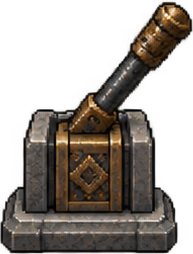
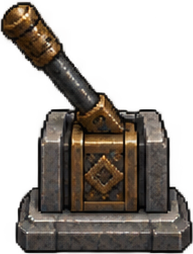
improve dwarven artwork, add new active floor trap state

diff --git a/tests/e2e/dwarven-traps.cy.js b/tests/e2e/dwarven-traps.cy.js
@@ -24,6 +24,62 @@ describe('Dwarven Ruins reusable traps', () => {
     cy.window().then(win => win.eval(`(${trapRuleChecks.toString()})()`))
   })
 
+  it('shows raised spikes only while a living creature occupies the trap', () => {
+    cy.window().then(win => win.eval(`(() => {
+      const check = (ok, msg) => { if (!ok) throw Error(msg) }
+      const level = trapFixture()
+      level.traps = [{id:'spike', type:'spikes', trigger:{x:11,y:12}}]
+      map[12][11] = 'dwarvenspikes'
+      const idle = 'img/tiles/dwarven-floor-trap-0.png'
+      const raised = 'img/tiles/dwarven-floor-trap-1.png'
+      const config = RENDER_STYLE.terrainTiles.dwarvenspikes
+      check(config.image === idle && config.activeImage === raised && !config.sourceRect,
+        'spike art uses the two full-frame tile assets, not the old atlas')
+      const visualImage = () => terrainVisual('dwarvenspikes', 11, 12).image
+      const drawnImages = []
+      const oldDraw = drawImageVisual
+      const oldImages = USE_TILE_IMAGES
+      const paint = () => {
+        drawnImages.length = 0
+        render()
+        return drawnImages[drawnImages.length - 1]
+      }
+      drawImageVisual = (px, py, visual, alpha) => {
+        if (visual?.image === idle || visual?.image === raised) drawnImages.push(visual.image)
+        return oldDraw(px, py, visual, alpha)
+      }
+      try {
+        USE_TILE_IMAGES = true
+        check(visualImage() === idle && paint() === idle, 'empty trap is recessed')
+        player.x = 11
+        check(visualImage() === raised && paint() === raised, 'player raises the spikes')
+        player.x = 10
+        check(visualImage() === idle && paint() === idle, 'spikes retract when player leaves')
+
+        const monster = {x:11,y:12,level:-4,levelKind:'chain',alive:true}
+        enemies = [monster]
+        check(visualImage() === raised, 'living monster also raises the spikes')
+        monster.alive = false
+        check(visualImage() === idle, 'dead monster does not hold spikes raised')
+        monster.alive = true
+        monster.level = -3
+        check(visualImage() === idle, 'monster on another floor does not activate the image')
+        enemies = []
+
+        USE_TILE_IMAGES = false
+        paint()
+        check(drawnImages.length === 0 && TILE.dwarvenspikes.ch === '^',
+          'ASCII mode retains the existing spike glyph instead of drawing either image')
+        check(map[12][11] === 'dwarvenspikes' && level.traps.length === 1,
+          'image changes do not mutate the mechanism or its terrain')
+      } finally {
+        drawImageVisual = oldDraw
+        USE_TILE_IMAGES = oldImages
+      }
+      return true
+    })()`))
+  })
+
   it('restores mechanisms and replays both trap types with the same RNG tape', () => {
     cy.window().then(win => win.eval(`(${trapPersistenceChecks.toString()})()`))
   })

diff --git a/index.html b/index.html
@@ -7135,6 +7135,15 @@ more difficult:
     const visual = RENDER_STYLE.terrainTiles?.[tileKey]
     if (!visual) return null
 
+    // A spike trap is raised while someone occupies its tile. This is a
+    // presentation-only state: trap damage still resolves on entry, and no
+    // animation frame or saved flag affects gameplay or replay.
+    if (tileKey === 'dwarvenspikes') {
+      const occupiedByPlayer = player.x === x && player.y === y
+      const occupiedByEnemy = enemies.some(e => e.alive && onCurrentLevel(e) && e.x === x && e.y === y)
+      return occupiedByPlayer || occupiedByEnemy ? {...visual, image: visual.activeImage} : visual
+    }
+
     if (tileKey === 'cavefloor2' && brownDeepCaveAt(x, y))
       return {...(RENDER_STYLE.terrainTiles?.cavefloorBrown || visual), flipX: !!(x & 1), flipY: !!(y & 1)}
     if (currentZ < 0 && visual.undergroundImage) return {...visual, image: visual.undergroundImage}

diff --git a/src/version.js b/src/version.js
@@ -1,5 +1,5 @@
 // Central version source. Bump the game version for each deployed release and the save
 // version whenever the persisted gameplay schema changes. The page/service worker use
 // the game version; save/load and replay snapshots use the save version.
-self.VAGABOND_GAME_VERSION = 'v76'
+self.VAGABOND_GAME_VERSION = 'v77'
 self.VAGABOND_SAVE_VERSION = 39

diff --git a/sw.js b/sw.js
@@ -59,6 +59,8 @@ const PRECACHE_URLS = [
   './img/tiles/dwarven-table.png',
   './img/tiles/dwarven-crate.png',
   './img/tiles/dwarven-prison-bars.png',
+  './img/tiles/dwarven-floor-trap-0.png',
+  './img/tiles/dwarven-floor-trap-1.png',
   './img/tiles/dwarven-traps-atlas.png',
   './img/tiles/dwarven-pressure-plate.png'
 ];

diff --git a/TECH_DOCS.md b/TECH_DOCS.md
@@ -1068,7 +1068,7 @@ scenario metadata and enemy-carried dungeon-key state. Schema **39** replaces th
 Ruins-specific lift save field with a package-tagged dungeon shortcut registry and
 persists each deep level's dungeon-package identity, so later dungeon strata can
 reuse shortcuts without another dedicated save field. Current game version is
-**v76**, save schema **39**; older saves are rejected.
+**v77**, save schema **39**; older saves are rejected.
 
 ### Dwarven Ruins traps (batch 5)
 
@@ -1109,9 +1109,13 @@ optional emitter, direction and range. Schema 35 restores it directly alongside
 terrain, including replay initial snapshots.
 
 ASCII glyphs are `^` for spikes, `_` for pressure plates and `!` for wall-arrow
-emitters. Image mode uses the generated trap atlas and a separate pressure
-plate tile. Rendering supports `sourceRect: [x, y, width, height]` for atlas
-regions without changing the gameplay tile. Shared underground FOV now honors
+emitters. In image mode, spike traps use `dwarven-floor-trap-0.png` when empty
+and `dwarven-floor-trap-1.png` while the player or a living monster occupies
+the tile. Occupancy changes the displayed image only; spikes still deal damage
+on entry, not each turn spent standing on them. The arrow emitter still uses
+the trap atlas, and its pressure plate has a separate tile. Rendering supports
+`sourceRect: [x, y, width, height]` for atlas regions without changing the
+gameplay tile. Shared underground FOV now honors
 `TILE.blocksSight`, so closed doors, levers and arrow walls block sight.
 The supplied service worker now precaches the trap module and images for offline play.
 
